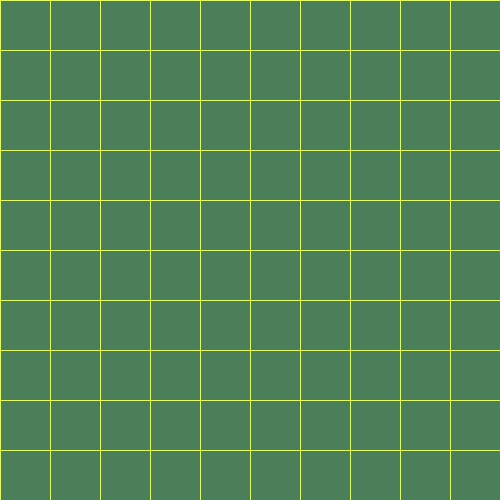
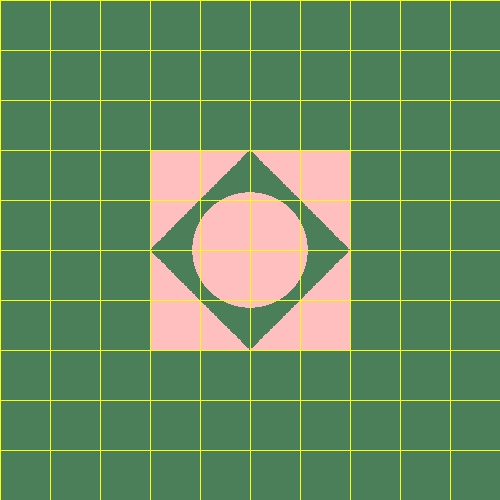
render + scene updated

Changed region(s): [[0.3, 0.3, 0.72, 0.72]]

diff --git a/src/unittests/SphereTest.java b/src/unittests/SphereTest.java
@@ -31,7 +31,7 @@ public class SphereTest {
             Coordinate z = new Coordinate(4);
             Point3D centerPoint = new Point3D(x, y, z);
             double radius = 2;
-            Sphere mySphere = new Sphere(primitives.Color.BLACK, radius, centerPoint);
+            Sphere mySphere = new Sphere(radius, centerPoint);
             Point3D result = mySphere.getCenter();
             Point3D expResult = new Point3D(centerPoint);
 
@@ -49,7 +49,7 @@ public class SphereTest {
 
         //TC01:we test the get normal of sphere the same way than the other func(result and expected result)
         try {
-            Sphere sp = new Sphere(primitives.Color.BLACK, 1.0, new Point3D(0, 0, 1));
+            Sphere sp = new Sphere(1.0, new Point3D(0, 0, 1));
             assertEquals(new Vector(0, 0, 1), sp.getNormal(new Point3D(0, 0, 2)));
         } catch (IllegalArgumentException e) {
         }
@@ -65,14 +65,14 @@ public class SphereTest {
         //TC01 no intersections ray is outside of the sphere
         Ray ray = new Ray(new Point3D(0, 0, 0), new Vector(0, 0, -1));
         Sphere sphere =
-                new Sphere(primitives.Color.BLACK, 1, new Point3D(0, 2, -4));
+                new Sphere(1, new Point3D(0, 2, -4));
         List<Point3D> intersectionsList = sphere.findIntersections(ray);
         assertNull("must be empty", intersectionsList);
 
         //TC02 ray start before and cross the sphere twice: 2 intersections
         //(si ca ne marche pas penser a changer l'ordre des points)
         ray = new Ray(new Point3D(-3, 1, 0), new Vector(6, 0, 0));
-        sphere = new Sphere(primitives.Color.BLACK, 2, new Point3D(0, 0, 0));
+        sphere = new Sphere(2, new Point3D(0, 0, 0));
         intersectionsList = sphere.findIntersections(ray);
         assertNotNull("must not be empty", intersectionsList);
         assertEquals("must be equal to 2", 2, intersectionsList.size());
@@ -85,7 +85,7 @@ public class SphereTest {
 
         //TC03 ray start inside sphere:1 intersection
         ray = new Ray(new Point3D(0, 0, 0), new Vector(0, 0, -1));
-        sphere = new Sphere(primitives.Color.BLACK, 5, new Point3D(0, -1, -1));
+        sphere = new Sphere(5, new Point3D(0, -1, -1));
         intersectionsList = sphere.findIntersections(ray);
         assertNotNull("must be not empty", intersectionsList);
         assertEquals("must be equal to one", 1, intersectionsList.size());
@@ -93,7 +93,7 @@ public class SphereTest {
 
         //TC04 ray starts outside sphere after it, due to direction- no intersection
         ray = new Ray(new Point3D(0, 0, 0), new Vector(0, 0, -1));
-        sphere = new Sphere(primitives.Color.BLACK, 2, new Point3D(0, 1, 4));
+        sphere = new Sphere(2, new Point3D(0, 1, 4));
         intersectionsList = sphere.findIntersections(ray);
         assertNull("must be empty", intersectionsList);
 
@@ -102,7 +102,7 @@ public class SphereTest {
         // **** Group: Ray's line crosses the sphere (but not the center)
         // TC11: Ray starts at sphere and goes inside
         ray = new Ray(new Point3D(-2, 0, 0), new Vector(2, 0, 2));
-        sphere = new Sphere(primitives.Color.BLACK, 2, new Point3D(0, 0, 0));
+        sphere = new Sphere(2, new Point3D(0, 0, 0));
         intersectionsList = sphere.findIntersections(ray);
         assertNotNull("must be not empty", intersectionsList);
         assertEquals("must be equal to one", 1, intersectionsList.size());
@@ -110,7 +110,7 @@ public class SphereTest {
 
         // TC12; Ray starts at sphere and goes outside
         ray = new Ray(new Point3D(2, 0, 0), new Vector(2.29, 4.67, 0));
-        sphere = new Sphere(primitives.Color.BLACK, 2, new Point3D(0, 0, 0));
+        sphere = new Sphere(2, new Point3D(0, 0, 0));
         intersectionsList = sphere.findIntersections(ray);
         assertNull("must be empty", intersectionsList);
 
@@ -118,7 +118,7 @@ public class SphereTest {
         // **** Group: Ray's line goes through the center
         //TC13 ray start at the center of the sphere
         ray = new Ray(new Point3D(0, 0, 0), new Vector(0, 0, -1));
-        sphere = new Sphere(primitives.Color.BLACK, 5, new Point3D(0, 0, 0));
+        sphere = new Sphere(5, new Point3D(0, 0, 0));
         intersectionsList = sphere.findIntersections(ray);
         assertNotNull("must be not empty", intersectionsList);
         assertEquals("must be equal to one", 1, intersectionsList.size());
@@ -127,7 +127,7 @@ public class SphereTest {
         //TC14 ray starts on sphere surface, to the outside:
         //no intersection because we don't take in account the ray head
         ray = new Ray(new Point3D(0, 0, 3), new Vector(0, 0, 5));
-        sphere = new Sphere(primitives.Color.BLACK, 2, new Point3D(0, 0, 1));
+        sphere = new Sphere(2, new Point3D(0, 0, 1));
         intersectionsList = sphere.findIntersections(ray);
         assertNull("must be empty",intersectionsList);
         /*assertNotNull("must be not empty", intersectionsList);
@@ -137,7 +137,7 @@ public class SphereTest {
         //TC15 ray starts on sphere surface, to the inside:
         //1 intersection because we don't take in account the ray head
         ray = new Ray(new Point3D(0, 0, 4), new Vector(0, 0, 1));
-        sphere = new Sphere(primitives.Color.BLACK, 2, new Point3D(0, 0, 6));
+        sphere = new Sphere(2, new Point3D(0, 0, 6));
         intersectionsList = sphere.findIntersections(ray);
         assertNotNull("must be not empty", intersectionsList);
         assertEquals("must be equal to one", 1, intersectionsList.size());
@@ -146,13 +146,13 @@ public class SphereTest {
 
         //TC16 ray starts outside of the sphere to the outside but on a line aligned with the center: no intersections
         ray = new Ray(new Point3D(0, 0, 0), new Vector(0, 0, -1));
-        sphere = new Sphere(primitives.Color.BLACK, 5, new Point3D(0, 0, 6));
+        sphere = new Sphere(5, new Point3D(0, 0, 6));
         intersectionsList = sphere.findIntersections(ray);
         assertNull("must be empty", intersectionsList);
 
         //TC17 ray starts outside of the sphere to the inside cross twice the sphere and pass by center: 2 intersections
         ray = new Ray(new Point3D(0, 0, 0), new Vector(0, 0, -1));
-        sphere = new Sphere(primitives.Color.BLACK, 5, new Point3D(0, 0, -6));
+        sphere = new Sphere(5, new Point3D(0, 0, -6));
         intersectionsList = sphere.findIntersections(ray);
         assertNotNull("must be not empty", intersectionsList);
         assertEquals("must be equal to one", 2, intersectionsList.size());
@@ -161,7 +161,7 @@ public class SphereTest {
 
         //TC18 ray starts on sphere surface, to the outside on the same line that the center: 1 intersection
         ray = new Ray(new Point3D(0, 0, 1), new Vector(0, 0, 1));
-        sphere = new Sphere(primitives.Color.BLACK, 5, new Point3D(0, 0, 0));
+        sphere = new Sphere(5, new Point3D(0, 0, 0));
         intersectionsList = sphere.findIntersections(ray);
         assertNotNull("must be not empty", intersectionsList);
         assertEquals("must be equal to one", 1, intersectionsList.size());
@@ -170,26 +170,26 @@ public class SphereTest {
         // **** Group: Special cases
         //TC19 ray is on a line that vertical to radius- ray starts on the radius line
         ray = new Ray(new Point3D(0, 0, 0), new Vector(0, 0, -1));
-        sphere = new Sphere(primitives.Color.BLACK, 1, new Point3D(0, 2, 0));
+        sphere = new Sphere(1, new Point3D(0, 2, 0));
         intersectionsList = sphere.findIntersections(ray);
         assertNull("must be empty", intersectionsList);
 
         // **** Group: Ray's line is tangent to the sphere
         //TC16 ray is on the tangent line- ray starts before intersection: 1 intersection
         ray = new Ray(new Point3D(0, 0, 0), new Vector(0, 0, -1));
-        sphere = new Sphere(primitives.Color.BLACK, 1, new Point3D(0, 1, -1));
+        sphere = new Sphere(1, new Point3D(0, 1, -1));
         intersectionsList = sphere.findIntersections(ray);
         assertNull("must be empty", intersectionsList);
 
         //TC17 ray is on the tangent line- ray starts on intersection: 1 intersection
         ray = new Ray(new Point3D(0, 0, 0), new Vector(0, 0, -1));
-        sphere = new Sphere(primitives.Color.BLACK, 1, new Point3D(0, 1, 0));
+        sphere = new Sphere(1, new Point3D(0, 1, 0));
         intersectionsList = sphere.findIntersections(ray);
         assertNull("must be empty", intersectionsList);
 
         //TC18 ray is on the tangent line- ray starts after intersection: no intersections
         ray = new Ray(new Point3D(0, 0, 0), new Vector(0, 0, -1));
-        sphere = new Sphere(primitives.Color.BLACK, 1, new Point3D(0, 1, 1));
+        sphere = new Sphere(1, new Point3D(0, 1, 1));
         intersectionsList = sphere.findIntersections(ray);
         assertNull("must be empty", intersectionsList);
 

diff --git a/src/unittests/IntersectionTest.java b/src/unittests/IntersectionTest.java
@@ -9,11 +9,9 @@ import org.junit.Test;
 import primitives.Point3D;
 import primitives.Vector;
 
-import java.awt.*;
 import java.util.List;
 
-import static org.junit.Assert.assertEquals;
-import static org.junit.Assert.assertNull;
+import static org.junit.Assert.*;
 
 /**
  * we test the Intersection between package geometry and ray to the camera in 3D Cartesian coordinate
@@ -53,19 +51,19 @@ public class IntersectionTest {
     @Test
     public void constructRayThroughPixelWithSphere() {
         // TC01 test of intersection with sphere when all the sphere are out from the screen 3*3
-        intersections(new Sphere(primitives.Color.BLACK, 1, new Point3D(0, 0, 3)), 2, cam1);
+        intersections(new Sphere(1, new Point3D(0, 0, 3)), 2, cam1);
 
         // TC02 test of intersection with sphere when the all screen are in sphere
-        intersections(new Sphere(primitives.Color.BLACK, 2.5, new Point3D(0, 0, 2.5)), 18, cam2);
+        intersections(new Sphere(2.5, new Point3D(0, 0, 2.5)), 18, cam2);
 
         //TC03:part of screen are in the sphere
-        intersections(new Sphere(primitives.Color.BLACK, 2, new Point3D(0, 0, 2)), 10, cam2);
+        intersections(new Sphere(2, new Point3D(0, 0, 2)), 10, cam2);
 
         //TC04:the sphere around the screen
-        intersections(new Sphere(primitives.Color.BLACK, 4, new Point3D(0, 0, 2)), 9, cam2);
+        intersections(new Sphere(4, new Point3D(0, 0, 2)), 9, cam2);
 
         //TC05: the sphere is behind the screen
-        intersections(new Sphere(primitives.Color.BLACK, 0.5, new Point3D(0, 0, -1)), 0, cam2);
+        intersections(new Sphere(0.5, new Point3D(0, 0, -1)), 0, cam2);
     }
 
     /**
@@ -91,11 +89,11 @@ public class IntersectionTest {
     @Test
     public void constructRayThroughPixelWithTriangle() {
         //TC01: when triangle are smaller than the screen
-        intersections(new Triangle(primitives.Color.BLACK, new Point3D(0, -1, 2), new Point3D(1, 1, 2), new Point3D(-1, 1, 2)),
+        intersections(new Triangle(new Point3D(0, -1, 2), new Point3D(1, 1, 2), new Point3D(-1, 1, 2)),
                 1, cam1);
 
         //TC02: when the triangle is bigger than the screen
-        intersections(new Triangle(primitives.Color.BLACK, new Point3D(0, -20, 2), new Point3D(1, 1, 2), new Point3D(-1, 1, 2)),
+        intersections(new Triangle(new Point3D(0, -20, 2), new Point3D(1, 1, 2), new Point3D(-1, 1, 2)),
                 2, cam1);
 
     }

diff --git a/src/unittests/RenderTests.java b/src/unittests/RenderTests.java
@@ -28,13 +28,13 @@ public class RenderTests {
         scene.setBackground(new Color(75, 127, 90));
         scene.setAmbientLight(new AmbientLight(new Color(255, 191, 191), 1));
 
-        scene.addGeometries(new Sphere(new Color(java.awt.Color.PINK),50, new Point3D(0, 0, 100)));
+        scene.addGeometries(new Sphere(50, new Point3D(0, 0, 100)));
 
         scene.addGeometries(
-                new Triangle((new Color(java.awt.Color.PINK)),new Point3D(100, 0, 100), new Point3D(0, 100, 100), new Point3D(100, 100, 100)),
-                new Triangle(new Color(java.awt.Color.PINK), new Point3D(100, 0, 100), new Point3D(0, -100, 100), new Point3D(100, -100, 100)),
-                new Triangle(new Color(java.awt.Color.PINK), new Point3D(-100, 0, 100), new Point3D(0, 100, 100), new Point3D(-100, 100, 100)),
-                new Triangle(new Color(java.awt.Color.PINK), new Point3D(-100, 0, 100), new Point3D(0, -100, 100), new Point3D(-100, -100, 100)));
+                new Triangle(new Point3D(100, 0, 100), new Point3D(0, 100, 100), new Point3D(100, 100, 100)),
+                new Triangle(new Point3D(100, 0, 100), new Point3D(0, -100, 100), new Point3D(100, -100, 100)),
+                new Triangle(new Point3D(-100, 0, 100), new Point3D(0, 100, 100), new Point3D(-100, 100, 100)),
+                new Triangle(new Point3D(-100, 0, 100), new Point3D(0, -100, 100), new Point3D(-100, -100, 100)));
 
         ImageWriter imageWriter = new ImageWriter("base render test", 500, 500, 500, 500);
         Render render = new Render(imageWriter, scene);

diff --git a/src/unittests/TriangleTest.java b/src/unittests/TriangleTest.java
@@ -26,7 +26,7 @@ public class TriangleTest {
         // ============ Equivalence Partitions Tests ==============
         //TC01:with two same points and so it's not a triangle it's a vector
         try {
-            new Triangle(primitives.Color.BLACK, new Point3D(0, 0, 0), new Point3D(0, 0, 0), new Point3D(1, 2, 3));
+            new Triangle(new Point3D(0, 0, 0), new Point3D(0, 0, 0), new Point3D(1, 2, 3));
             fail("Constructed a vector not a triangle ");
         } catch (IllegalArgumentException e) {
         }
@@ -40,7 +40,7 @@ public class TriangleTest {
         // ============ Equivalence Partitions Tests ==============
         //TC01 inside triangle
         Ray ray = new Ray(new Point3D(-4, 4, 3), new Vector(4, -2, -1));
-        Triangle triangle = new Triangle(primitives.Color.BLACK, new Point3D(0, 0, 0), new Point3D(0, 6, 0), new Point3D(0, 0, 8));
+        Triangle triangle = new Triangle(new Point3D(0, 0, 0), new Point3D(0, 6, 0), new Point3D(0, 0, 8));
         List<Point3D> intersectionsList = triangle.findIntersections(ray);
         assertNotNull("must be not empty", intersectionsList);
         assertEquals("must be equal to 1", 1, intersectionsList.size());

diff --git a/src/geometries/Geometries.java b/src/geometries/Geometries.java
@@ -3,13 +3,13 @@ package geometries;
 import primitives.Point3D;
 import primitives.Ray;
 
-import java.util.ArrayList;
+import java.util.LinkedList;
 import java.util.List;
 /**
  * class with list of shape.
  */
 public class Geometries implements Intersectable {
-    List<Intersectable> intersectableList = new ArrayList<>();
+    List<Intersectable> intersectableList = new LinkedList<>();
 
     /**
      * constructor received many geometries and adding them to the list
@@ -38,6 +38,15 @@ public class Geometries implements Intersectable {
 
     @Override
     public List<Point3D> findIntersections(Ray ray) {
-        return null;
+        List<Point3D> intersections = null;
+        for (Intersectable geo : intersectableList) {
+            List<Point3D> geoIntersections = geo.findIntersections(ray);
+            if (geoIntersections != null) {
+                if (intersections == null)
+                    intersections = new LinkedList<>();
+                intersections.addAll(geoIntersections);
+            }
+        }
+        return intersections;
     }
 }

diff --git a/src/geometries/Geometry.java b/src/geometries/Geometry.java
@@ -10,12 +10,12 @@ import java.util.List;
  * we do interface for geometry
  */
 public abstract class Geometry implements Intersectable {
-    /**
-     * getNormal function to get the normal vector from a point on a geometry
-     * @param point3D a point on geometry
-     * @return the normal vector
-     */
     protected Color _emission;
 
+    /**
+     * getNormal function to get the normal vector (unit vector - length=1) from a point on a geometry surface
+     * @param p a point on geometry surface
+     * @return the normal vector
+     */
     abstract public Vector getNormal(Point3D p);
 }

diff --git a/src/elements/AmbientLight.java b/src/elements/AmbientLight.java
@@ -3,7 +3,7 @@ package elements;
 import primitives.Color;
 
 /**
- * the class should represent
+ * The class represents ambient lighting in the scene - the fill color which is added to all objects of 3D model
  */
 public class AmbientLight {
     private Color _intensity;
@@ -16,6 +16,7 @@ public class AmbientLight {
     public  AmbientLight(Color ia, double ka) {
         this._intensity = ia.scale(ka);
     }
+
     public Color getIntensity() {
         return _intensity;
     }

diff --git a/src/geometries/Sphere.java b/src/geometries/Sphere.java
@@ -19,11 +19,10 @@ public class Sphere extends RadialGeometry {
     /**
      * this is a basic constructor it receives two param radius and center
      *
-     * @param color
      * @param radius - the radius of the sphere
      * @param center - point 3d that his the location of the sphere
      */
-    public Sphere(Color color, double radius, Point3D center) {
+    public Sphere(double radius, Point3D center) {
         super(radius);
         _center = center;
     }

diff --git a/src/geometries/Triangle.java b/src/geometries/Triangle.java
@@ -18,13 +18,11 @@ public class Triangle extends Polygon {
      * in did 3 points are already a triangle
      * this constructor uses the constructor of the parent class Polygon
      *
-     * @param color
      * @param p1 1st point
      * @param p2 2nd point
      * @param p3 3rd point
      */
-    public Triangle(Color color, Point3D p1, Point3D p2, Point3D p3) {
-
+    public Triangle(Point3D p1, Point3D p2, Point3D p3) {
         super(p1, p2, p3);
     }
 

diff --git a/src/unittests/ImageWriterTest.java b/src/unittests/ImageWriterTest.java
@@ -11,7 +11,7 @@ import renderer.ImageWriter;
 public class ImageWriterTest {
 
     /**
-     * we test to creat image 10*16 squared 1000*1600 unit light witch resolutions 500*800
+     * we test the creation image 10*16 squared 1000*1600 unit light witch resolutions 500*800
      */
     @Test
     public void writeToImage() {
